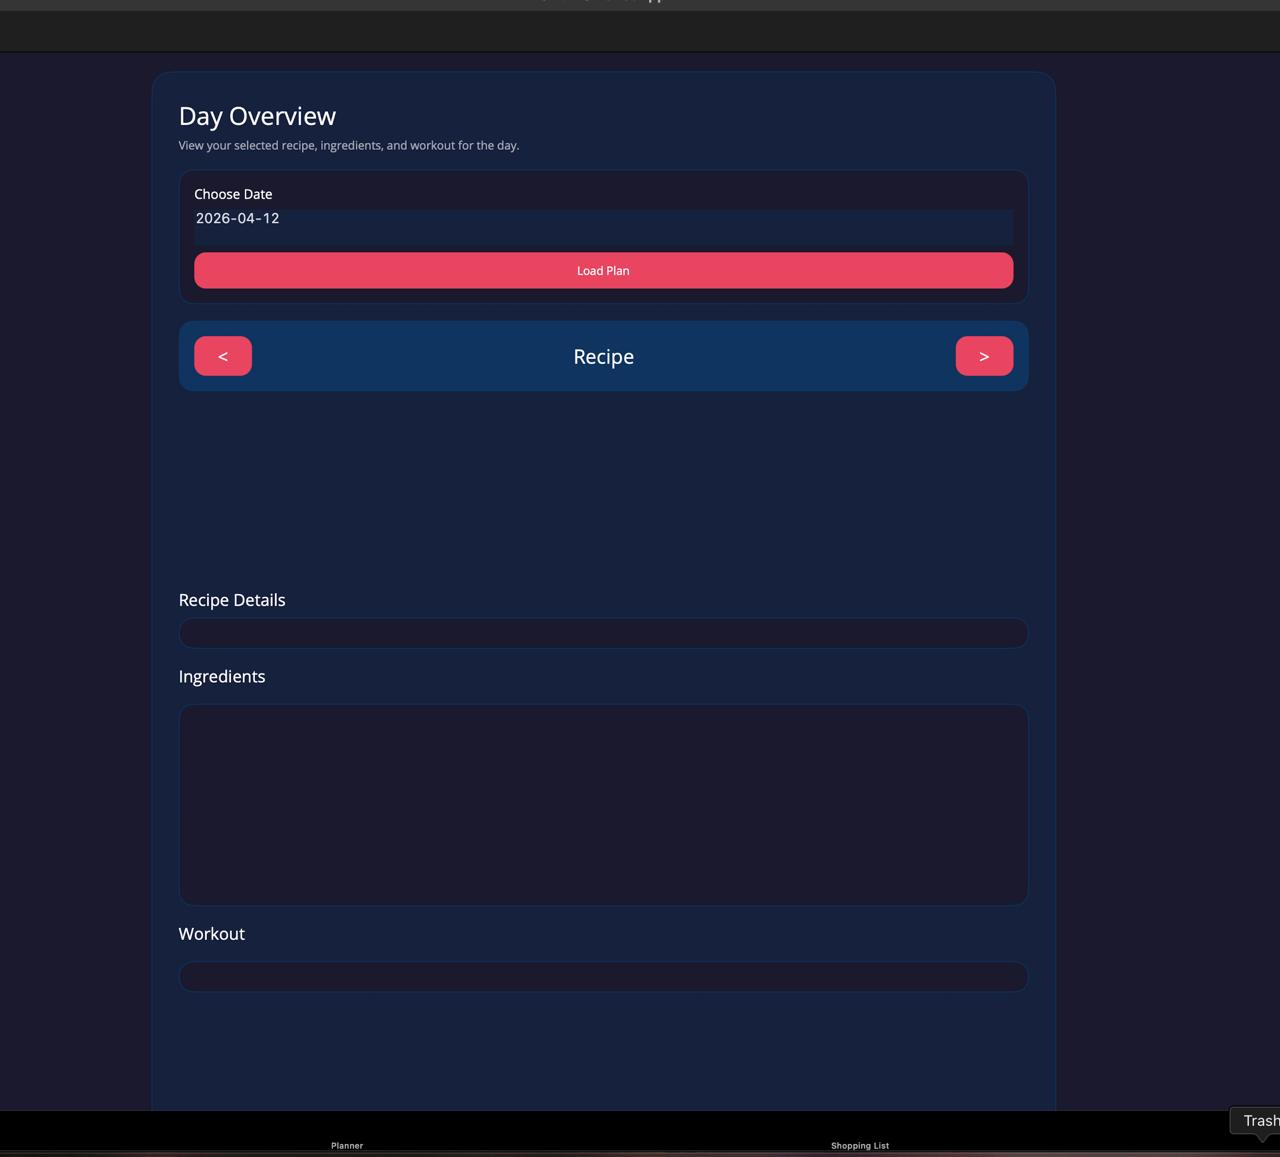
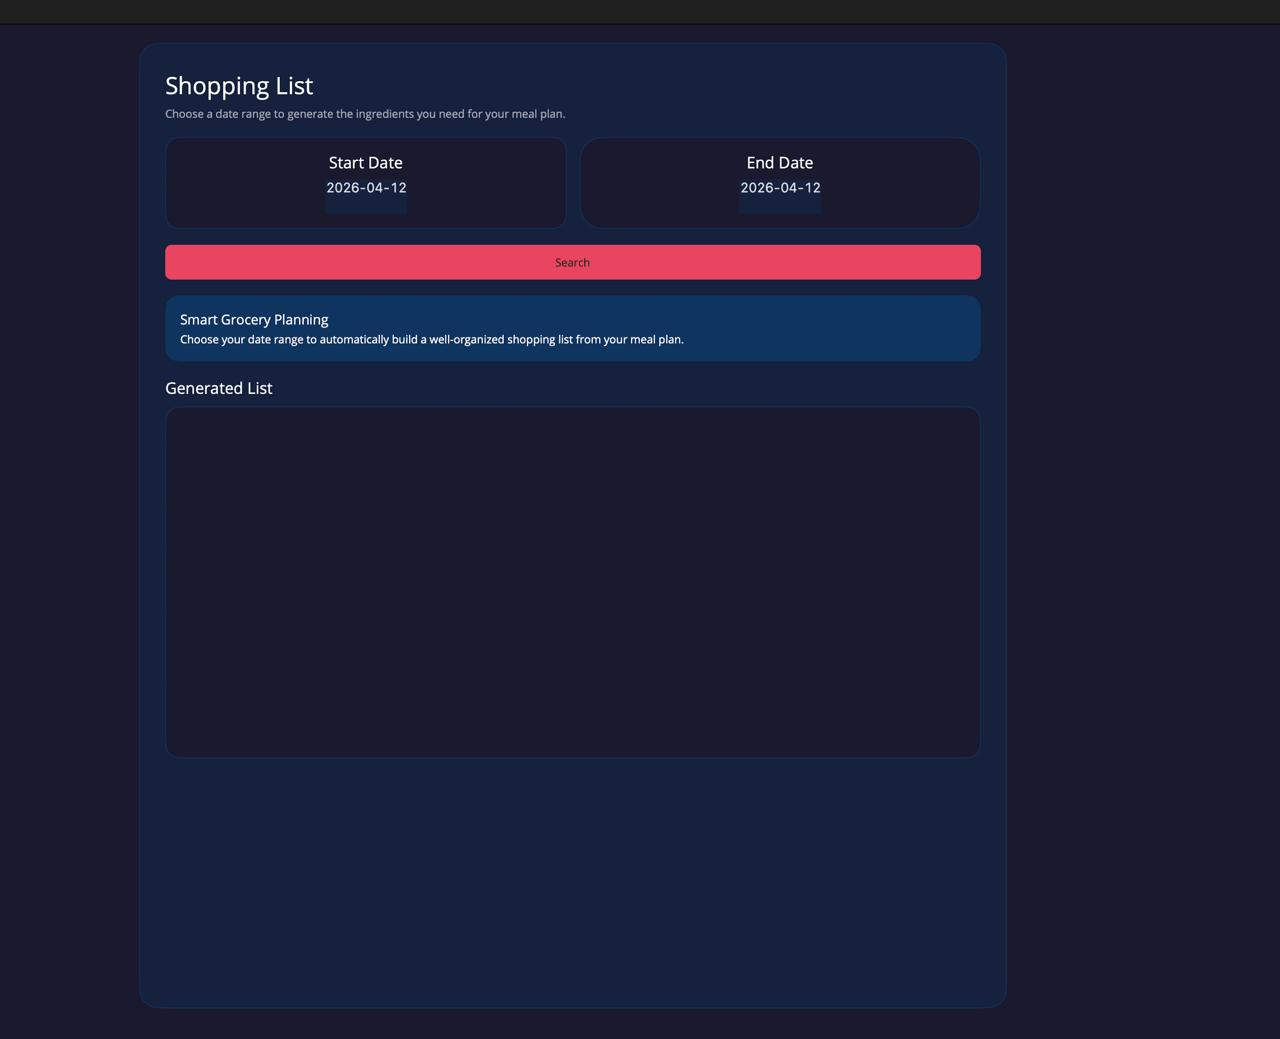
uml diagram

diff --git a/README.md b/README.md
@@ -97,4 +97,4 @@ Although each member was responsible for specific parts of the app, we all colla
 
 This is the UML diagram for the **Smart Calories** app.
 
-
+![Shopping List Page](images/UML.png)
